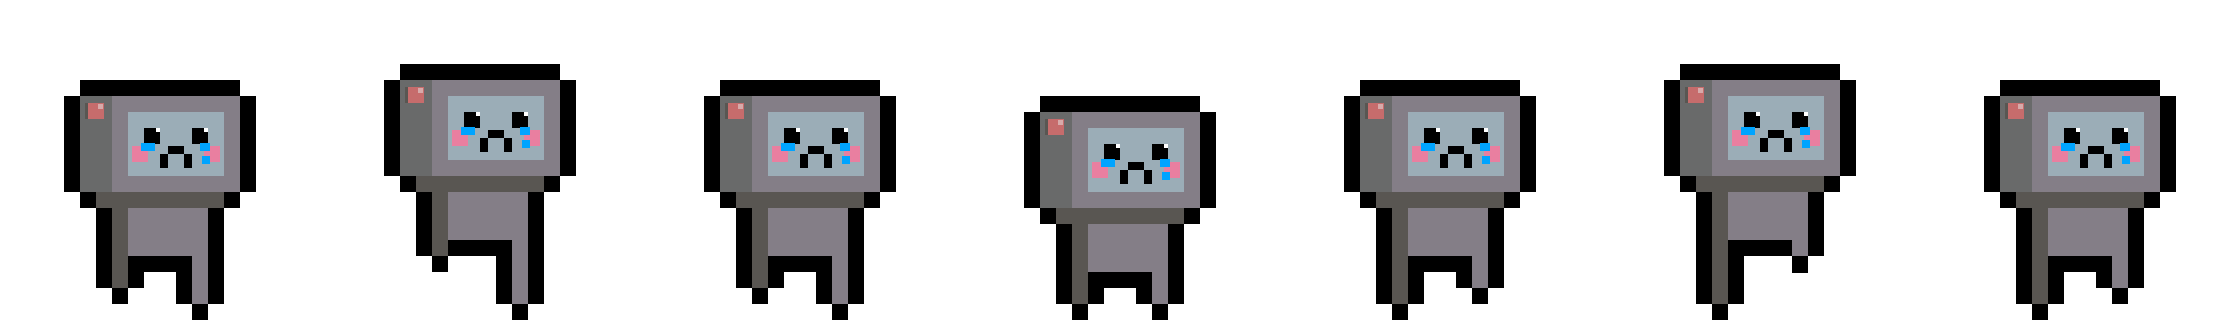
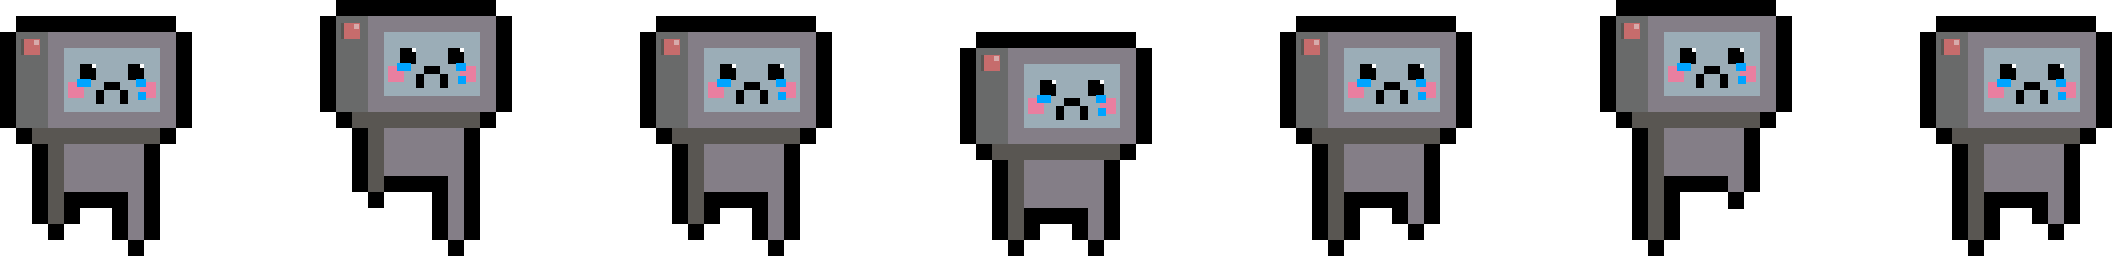
Resized spritesheet for animation purposes

diff --git a/src/scenes/Load.js b/src/scenes/Load.js
@@ -22,6 +22,7 @@ class Load extends Phaser.Scene
         this.load.image('clouds', 'assets/clouds.png');
         this.load.image('bg', 'assets/bg.png');
         this.load.image('screw', 'assets/screw.png');
+        this.load.spritesheet('walk', 'assets/robo_walk.png');
         //load audio
         this.load.audio('gethit', './assets/hit.wav');
         this.load.audio('gameover', './assets/gameover.wav');

diff --git a/src/scenes/Play.js b/src/scenes/Play.js
@@ -68,6 +68,7 @@ class Play extends Phaser.Scene
             this.createTopBarrier();
         })
 
+        
 
         //ground tile code below used from Nathan Altice's Movement Studies
         this.ground = this.add.group();
